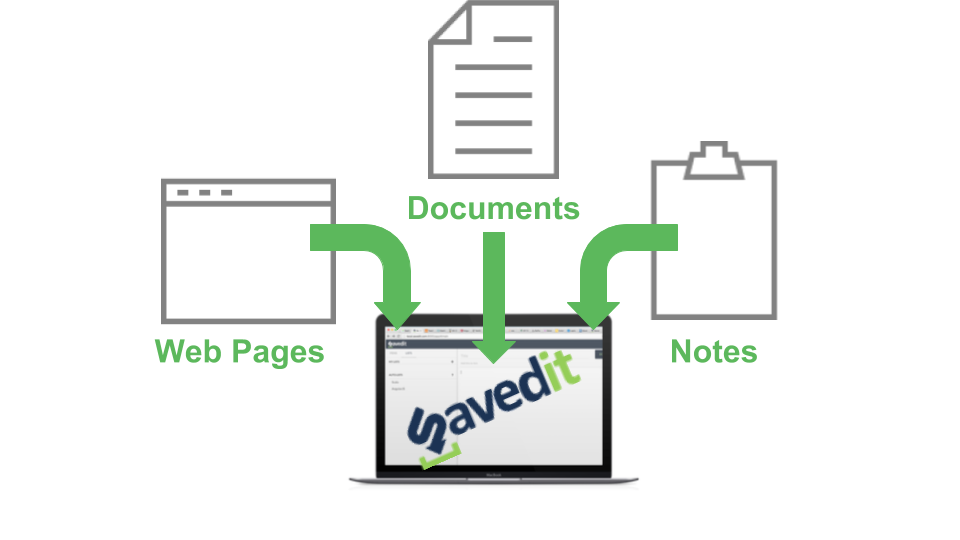
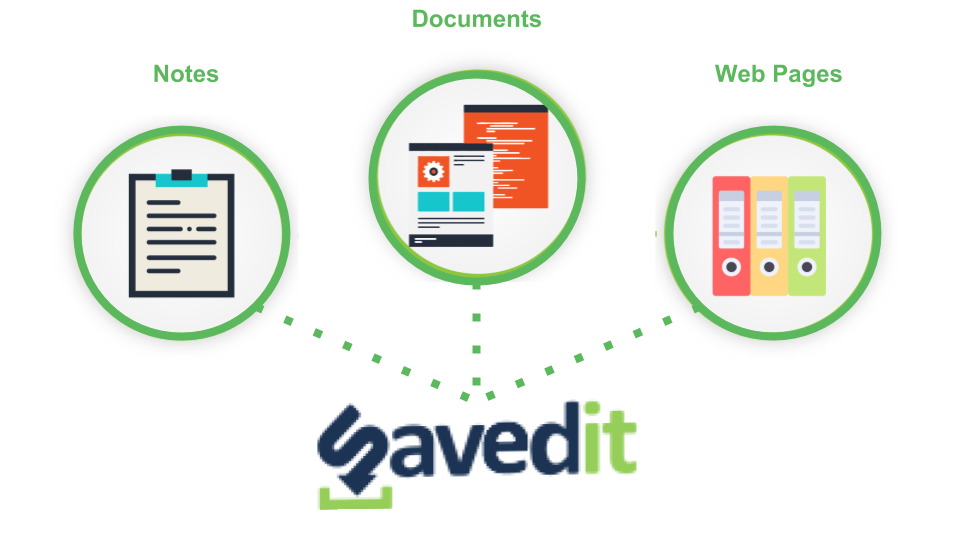
Put new FPO saveditExplainer.png image in place. Changed bootstrap classes to be responsive.

Changed region(s): [[0.0625, 0.0, 0.9375, 0.9481], [0.7188, 0.1185, 0.875, 0.1778], [0.1562, 0.1185, 0.25, 0.1481]]

diff --git a/index.html b/index.html
@@ -58,12 +58,12 @@
     </nav>
 
     <div class="container">
-      <div class="savedit-site">
+      <div class="savedit-site style="width: 300px;">
         <h1>
           <div class="element"></div>
         </h1>
           <!-- We need to change this to a more meaningful image that explains how it works -->
-           <img src="img/savedItExplainer.png" width="300"><br>
+          <img src="img/savedItExplainer.png" class="img-fluid mw-100"><br>
           <form class="form-inline justify-content-center">
             <p>
               <div class="form-group mx-sm-3">
@@ -115,7 +115,7 @@
       </div>
     </div><!-- /icon area -->
 
-    <div class="text-white d-flex flex-column  align-items-center savedit-quote-row">
+    <div class="text-white d-flex flex-column align-items-center savedit-quote-row">
       <div class="bubble justify-content-center">
       I try to stay organized, but I have a lot of stuff. Notes, links to articles, websites... I usually just end up emailing them all to myself.
       I came to realize I could be so much more efficient if I could find what I need faster, with one quick search.
